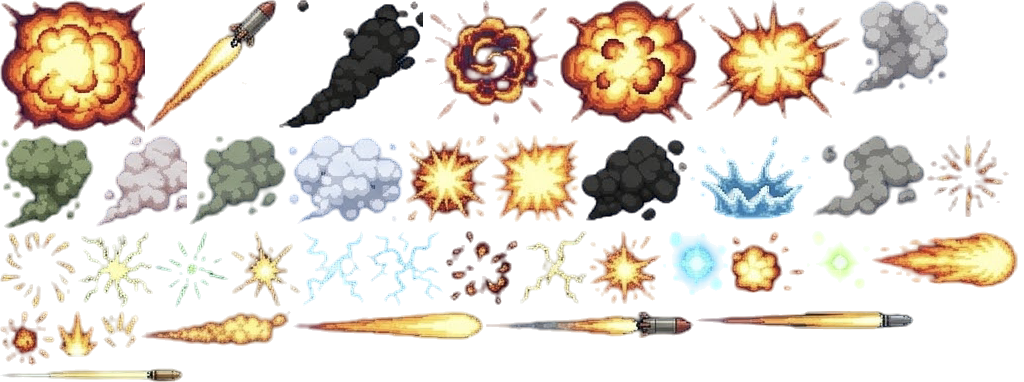
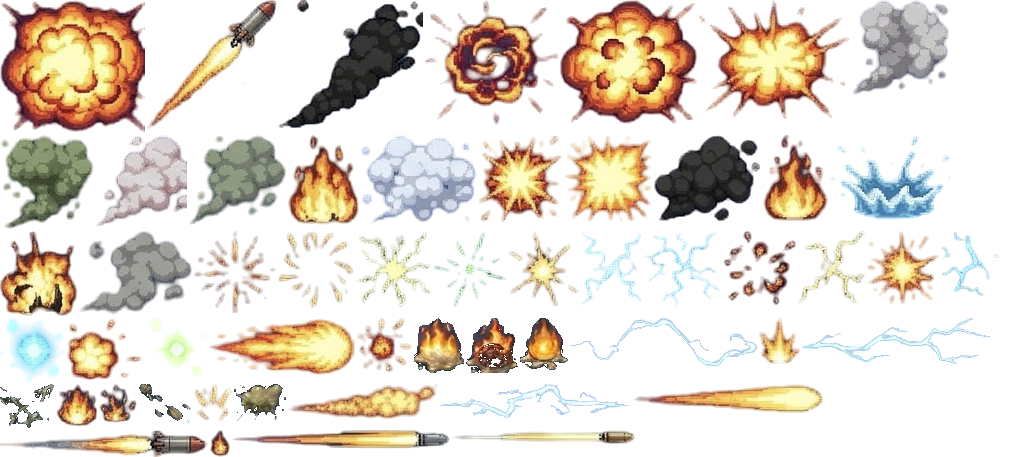
Add fire, lightning and glue effects from the new uploads
Cut flames and a lightning crack from the second effects sheet, and
painted bolts, glue, napalm and sticky fire from the effects board
(keyed off its navy background). Burning and glued modules and enemies
show lasting flames and glue; Tesla and storm lightning fly as painted
bolts; glue shots tumble as globs.

Claude-Session: https://claude.ai/code/session_012B9RMEQkFnqoemxWw27KeB

diff --git a/js/fx.js b/js/fx.js
@@ -85,9 +85,15 @@
         if (s.style === 'firepot') { g.fillStyle = '#ff8a3a'; g.beginPath(); g.arc(x, y, 5, 0, TAU); g.fill(); break; }
         for (let i = 0; i < 3; i++) parts.push({ kind: 'flame', x: x + rand(-5, 5), y: y + rand(-5, 5), vx: rand(-20, 20), vy: rand(-30, 0), g: -40, life: rand(0.25, 0.45), max: 0.45, r: rand(5, 10) });
         break;
-      case 'goo':
-        g.fillStyle = '#9fd05a'; for (let i = 0; i < 4; i++) { g.beginPath(); g.arc(x - i * 9, y + Math.sin((s.t + i) * 30) * 4, 3, 0, TAU); g.fill(); }
+      case 'goo': case 'tar': {
+        // A tumbling glob of glue that leaves sticky drips behind it.
+        g.save(); g.translate(x, y); g.rotate(s.t * 14);
+        const ok = SP().draw(g, 'glue_glob', 0, 0, s.style === 'tar' ? 26 : 22);
+        g.restore();
+        if (Math.random() < 0.5) parts.push({ kind: 'drip', x, y, vx: 0, vy: 20, g: 200, life: 0.5, max: 0.5, r: 2 });
+        if (!ok) { g.fillStyle = '#c9b37a'; g.beginPath(); g.arc(x, y, 5, 0, TAU); g.fill(); }
         break;
+      }
       case 'rocket': {
         // Point along the flight path, using the last trail point for the heading.
         const prev = s.trail.length > 1 ? s.trail[s.trail.length - 2] : [s.from.x, s.from.y];
@@ -113,6 +119,14 @@
         break;
       }
       case 'lightning': {
+        // A painted bolt stretched from gun to target, flickering between three shapes.
+        const dx = s.to.x - s.from.x, dy = s.to.y - s.from.y, len = Math.hypot(dx, dy);
+        const bolt = BOLTS[Math.floor(s.t * 30) % BOLTS.length];
+        g.save(); g.translate((s.from.x + s.to.x) / 2, (s.from.y + s.to.y) / 2); g.rotate(Math.atan2(dy, dx));
+        g.globalCompositeOperation = 'lighter';
+        const ok = SP().draw(g, bolt, 0, 0, len * 1.05, Math.min(40, len * 0.22));
+        g.restore();
+        if (ok) break;
         g.save(); g.strokeStyle = '#e6f3ff'; g.lineWidth = 2.5; g.shadowColor = '#8fc8ff'; g.shadowBlur = 14;
         g.beginPath(); g.moveTo(s.from.x, s.from.y);
         const n = 8;
@@ -120,10 +134,10 @@
         g.stroke(); g.restore();
         break;
       }
-      case 'gas': case 'tar': {
-        const col = { gas: '#a98ad6', tar: '#8bc34a' }[s.style];
+      case 'gas': {
+        const col = '#a98ad6';
         g.fillStyle = col; g.strokeStyle = '#24170f'; g.lineWidth = 1.5; g.beginPath(); g.arc(x, y, 5, 0, TAU); g.fill(); g.stroke();
-        if (Math.random() < 0.6) parts.push({ kind: 'smoke', x, y, vx: rand(-10, 10), vy: rand(-10, 10), g: 0, life: 0.4, max: 0.4, r: 4, color: s.style === 'gas' ? 'rgba(170,140,220,' : undefined });
+        if (Math.random() < 0.6) parts.push({ kind: 'smoke', x, y, vx: rand(-10, 10), vy: rand(-10, 10), g: 0, life: 0.4, max: 0.4, r: 4, color: 'rgba(170,140,220,' });
         break;
       }
       case 'bomb':
@@ -136,6 +150,9 @@
       }
     }
   }
+  const BOLTS = ['bolt_forked', 'bolt_jagged', 'bolt_chain'];
+  const FLAMES = ['fire_1', 'fire_2', 'fire_3'];
+  const BIG_FLAMES = ['fire_big_1', 'fire_big_2', 'fire_big_1', 'fire_big_2', 'fire_big_3'];
   const WEAPON_SHOT = { harpoon: ['harpoon', 0.3, 0], cannon: ['ball', 0.32, 18], mortar: ['shell', 0.55, 90], flamethrower: ['flame', 0.35, 0], gatling: ['goo', 0.3, 0], grenadiers: ['rocket', 0.45, 40], sniper: ['tracer', 0.14, 0], tesla: ['lightning', 0.18, 0] };
 
   // ---------- ambient effects ----------
@@ -162,10 +179,35 @@
     if (low && Math.random() < dt * 6) { const c = playerPt('core'); burst(c.x + rand(-15, 15), c.y - 6, 3, 'spark', { min: 40, max: 140, life: 0.5 }); }
   }
 
+  // Lasting status effects, painted every frame: flames on burning modules and on a burning enemy,
+  // globs of glue on glued modules and on a Gummed enemy.
+  function drawStatus(g, t) {
+    const game = window.cardships.game;
+    if (!game || !game.core || !A().player) return;
+    const P = A().player;
+    const flame = (x, y, w, seed, big) => { const set = big ? BIG_FLAMES : FLAMES; SP().draw(g, set[Math.floor(t * 9 + seed * 7) % set.length], x, y, w); };
+    const spots = [...[...P.mods.values()].map((m) => [m.uid, m.tokens]), ['core', game.core.tokens]];
+    for (const [uid, tok] of spots) {
+      if (!tok || (!tok.fire && !tok.glue)) continue;
+      const pt = P.pointOf(uid);
+      if (!pt) continue;
+      const seed = (uid.charCodeAt(uid.length - 1) || 0) % 5;
+      if (tok.glue) SP().draw(g, 'glue_glob', pt.x + 4, pt.y + 2, 20 + seed);
+      if (tok.fire) flame(pt.x - 2, pt.y - 10, 22, seed, false);
+    }
+    const c = game.combat;
+    if (A().enemy && c && !c.over) {
+      const ep = enemyPt();
+      if (c.enemy.weak > 0) for (const [k, dx] of [[0, -0.35], [1, 0.25]]) SP().draw(g, k ? 'glue_spray' : 'glue_glob', ep.x + dx * ep.r, ep.y + 8 + k * 6, 30);
+      if (c.enemy.burn > 0) for (let i = 0; i < Math.min(3, c.enemy.burn); i++) flame(ep.x + (i - 1) * ep.r * 0.45, ep.y - 6 + (i % 2) * 10, 30 + c.enemy.burn * 3, i, true);
+    }
+  }
+
   // ---------- drawing hooks ----------
   function drawFx(g, v) {
     const dt = v.dt;
     ambient(dt, v.t);
+    drawStatus(g, v.t);
     for (const s of shots) { s.t += dt; drawShot(g, s); }
     for (let i = shots.length - 1; i >= 0; i--) if (shots[i].t >= shots[i].dur) shots.splice(i, 1);
     for (const p of parts) {
@@ -284,6 +326,7 @@
   const sfx = (name, opts) => { if (window.CardshipsAudio) window.CardshipsAudio.sfx(name, opts); };
   let lookahead = [];
   let lastFire = null;
+  let lastBolt = false; // the enemy's last shot was lightning
   function nextTarget() {
     const ev = lookahead.find((e) => ['hit', 'block', 'destroyed'].includes(e.type));
     return ev ? ev.uid : null;
@@ -338,7 +381,9 @@
       for (let i = 0; i < Math.min(8, 2 + ev.dmg); i++) parts.push({ kind: Math.random() < 0.5 ? 'bolt' : 'gear', x: p.x, y: p.y, vx: rand(-160, 160), vy: rand(-200, -60), g: 500, life: 1, max: 1, r: rand(2.5, 4.5), rot: 0, vr: rand(-12, 12), color: '#8d9399' });
       smokePuff(p.x, p.y, 4);
       const ex = p.x - p.r * 0.2 + rand(-14, 14), ey = p.y + rand(-12, 12);
-      if (lastFire === 'tesla') sprite(ex, ey, ['zap_blue', 'zap_white'], 60, 0.35, { add: true });
+      if (lastFire === 'tesla') { sprite(ex, ey, ['zap_crack', 'zap_blue', 'zap_white'], 64, 0.4, { add: true }); sprite(ex, ey, 'bolt_chain', 90, 0.2, { add: true, rot: rand(-0.6, 0.6) }); }
+      if (lastFire === 'flamethrower') sprite(ex, ey + 6, ['napalm', 'fire_sticky'], 46, 0.7, { grow: 0.1 });
+      if (lastFire === 'gatling') { sprite(ex, ey, 'glue_spray', 44, 0.6, { grow: 0.2 }); sprite(ex + 6, ey + 4, 'glue_glob', 30, 0.8, { vy: 18, grow: 0 }); }
       explosion(ex, ey, 46 + ev.dmg * 8, big);
       if (big) smokeCloud(ex, ey - 10, 70, 'black');
       lastFire = null;
@@ -363,6 +408,7 @@
     enemyBlock() { const p = enemyPt(); ring(p.x, p.y, 'rgba(147,166,179,0.9)', p.r * 0.4, p.r * 1.1, 0.5, 6); sfx('clang'); return 320; },
     enemyHeal() { const p = enemyPt(); for (let i = 0; i < 6; i++) parts.push({ kind: 'wrench', x: p.x + rand(-p.r * 0.5, p.r * 0.5), y: p.y, vx: rand(-30, 30), vy: rand(-90, -40), g: 60, life: 0.9, max: 0.9, rot: 0, vr: rand(-12, 12) }); ring(p.x, p.y, 'rgba(120,220,140,0.9)', 10, p.r, 0.5, 5); sfx('ratchet'); return 300; },
     enemyShot(ev) {
+      lastBolt = !!ev.lightning;
       const from = enemyPt();
       const targets = [];
       for (const e of lookahead) { if (e.type === 'enemyShot' || e.type === 'roll' || e.type === 'intent') break; if (['hit', 'block', 'token'].includes(e.type) && !targets.includes(e.uid)) targets.push(e.uid); }
@@ -380,6 +426,7 @@
       if (m) m.hp = ev.hp;
       if (ev.uid === 'core') A().player.coreHp = ev.hp;
       burst(p.x, p.y, 8 + ev.dmg * 3, 'spark', { min: 60, max: 240, life: 0.5 });
+      if (lastBolt) { sprite(p.x, p.y, ['zap_crack', 'zap_white'], 52, 0.4, { add: true }); lastBolt = false; }
       for (let i = 0; i < Math.min(6, ev.dmg + 1); i++) parts.push({ kind: 'bolt', x: p.x, y: p.y, vx: rand(-140, 140), vy: rand(-180, -40), g: 520, life: 0.9, max: 0.9, rot: 0, vr: rand(-14, 14) });
       if (ev.src !== 'fire') explosion(p.x + rand(-8, 8), p.y + rand(-8, 4), 34 + ev.dmg * 7, ev.dmg >= 4);
       numberAt(p.x, p.y - 30, `-${ev.dmg}`, ev.uid === 'core' ? '#ff8f7a' : '#ffd6a0', 17 + Math.min(14, ev.dmg * 3));
@@ -414,16 +461,15 @@
     },
     token(ev) {
       const p = playerPt(ev.uid);
-      if (ev.token === 'fire') burst(p.x, p.y - 4, 16, 'flame', { min: 20, max: 120, g: -60, life: 0.6, rmin: 4, rmax: 9 });
-      if (ev.token === 'glue') burst(p.x, p.y, 14, 'drip', { min: 40, max: 160, g: 300, life: 0.7, rmin: 2, rmax: 4 });
+      if (ev.token === 'fire') { sprite(p.x, p.y - 8, ['napalm', 'sticky_fire', 'fire_sticky'], 44, 0.7, { grow: 0.15 }); burst(p.x, p.y - 4, 10, 'flame', { min: 20, max: 120, g: -60, life: 0.6, rmin: 4, rmax: 9 }); }
+      if (ev.token === 'glue') { sprite(p.x, p.y - 4, 'glue_spray', 40, 0.6, { grow: 0.2 }); burst(p.x, p.y, 10, 'drip', { min: 40, max: 160, g: 300, life: 0.7, rmin: 2, rmax: 4 }); }
       if (ev.token === 'gas') smokeCloud(p.x, p.y - 6, 60, 'green', { life: 1.4, vy: -8 });
-      if (ev.token === 'glue') sprite(p.x, p.y - 4, 'orb_green', 34, 0.5);
       if (ev.token === 'gas') for (let i = 0; i < 8; i++) parts.push({ kind: 'gas', x: p.x + rand(-20, 20), y: p.y + rand(-12, 12), vx: rand(-30, 30), vy: rand(-20, 10), g: 0, life: 1.4, max: 1.4, r: rand(10, 16) });
       sfx(ev.token === 'fire' ? 'crackle' : 'splat');
       return 220;
     },
-    burn(ev) { const p = playerPt(ev.uid); burst(p.x, p.y - 8, 12, 'flame', { up: 80, min: 10, max: 60, g: -80, life: 0.5, rmin: 4, rmax: 9 }); ring(p.x, p.y, 'rgba(255,140,60,0.9)', 6, 30, 0.3, 4); return 120; },
-    enemyBurn() { const p = enemyPt(); burst(p.x, p.y, 18, 'flame', { up: 90, min: 10, max: 80, g: -80, life: 0.6, rmin: 6, rmax: 11 }); sfx('crackle'); return 200; },
+    burn(ev) { const p = playerPt(ev.uid); sprite(p.x, p.y - 10, 'sticky_fire', 34, 0.6, { grow: 0.2 }); burst(p.x, p.y - 8, 12, 'flame', { up: 80, min: 10, max: 60, g: -80, life: 0.5, rmin: 4, rmax: 9 }); ring(p.x, p.y, 'rgba(255,140,60,0.9)', 6, 30, 0.3, 4); return 120; },
+    enemyBurn() { const p = enemyPt(); sprite(p.x, p.y - 4, ['fire_big_3', 'fire_big_1'], 70, 0.6, { grow: 0.2 }); burst(p.x, p.y, 18, 'flame', { up: 90, min: 10, max: 80, g: -80, life: 0.6, rmin: 6, rmax: 11 }); sfx('crackle'); return 200; },
     heal(ev) {
       const p = playerPt(ev.uid);
       const m = A().player.mods.get(ev.uid);

diff --git a/js/sprites.js b/js/sprites.js
@@ -26,17 +26,20 @@
     boiler_gauges: [301,0,175,140,2],
     boiler_tank: [151,0,148,140,2],
     bolt: [368,705,12,29],
+    bolt_chain: [570,318,187,48,1],
+    bolt_forked: [802,318,188,46,1],
+    bolt_jagged: [440,384,191,34,1],
     bombs: [123,456,126,90,2],
-    boom_1: [100,311,39,37,1],
-    boom_2: [57,311,41,46,1],
-    boom_3: [0,311,55,55,1],
-    boom_4: [730,231,75,62,1],
-    boom_5: [445,231,73,74,1],
-    boom_6: [927,135,82,82,1],
-    boom_7: [406,135,83,88,1],
-    boom_8: [491,135,88,87,1],
-    bullet: [0,368,183,14,1],
-    bullet_long: [696,311,218,19,1],
+    boom_1: [193,384,39,37,1],
+    boom_2: [759,318,41,46,1],
+    boom_3: [357,318,55,55,1],
+    boom_4: [67,318,75,62,1],
+    boom_5: [723,231,73,74,1],
+    boom_6: [194,231,82,82,1],
+    boom_7: [479,135,83,88,1],
+    boom_8: [564,135,88,87,1],
+    bullet: [452,430,183,14,1],
+    bullet_long: [232,430,218,19,1],
     cabin_big: [97,640,56,56],
     cabin_small: [842,640,36,45],
     cannon_a: [125,705,41,30],
@@ -61,14 +64,21 @@
     fin_a: [384,456,65,88,2],
     fin_b: [399,548,84,80,2],
     fin_c: [81,548,66,84,2],
-    fireball: [872,231,146,57,1],
+    fire_1: [210,430,20,27,1],
+    fire_2: [99,384,38,39,1],
+    fire_3: [56,384,41,43,1],
+    fire_big_1: [763,135,65,86,1],
+    fire_big_2: [288,135,71,90,1],
+    fire_big_3: [0,231,78,85,1],
+    fire_sticky: [414,318,50,55,1],
+    fireball: [209,318,146,57,1],
     flag_blue: [330,640,47,52],
     flag_cross: [473,640,46,50],
     flag_green: [425,640,46,50],
     flag_jolly: [567,640,46,49],
     flag_red: [379,640,44,50],
     flag_star: [521,640,44,49],
-    flame_trail: [293,311,191,29,1],
+    flame_trail: [633,384,191,29,1],
     frame: [418,705,36,27],
     gate: [732,640,32,47],
     gatling_a: [260,635,136,65,2],
@@ -77,6 +87,9 @@
     gauge: [269,548,93,82,2],
     gears_a: [780,0,198,131,2],
     gears_b: [636,0,142,135,2],
+    glue_glob: [234,384,52,37,1],
+    glue_mesh: [0,384,54,44,1],
+    glue_spray: [139,384,52,39,1],
     grapple: [848,298,71,118],
     gun_brass: [251,456,131,89,2],
     gun_copper: [792,262,156,93,2],
@@ -95,10 +108,11 @@
     mast: [542,298,22,152],
     motor_a: [77,635,89,69,2],
     motor_b: [168,635,90,68,2],
-    muzzle_trail: [141,311,150,35,1],
+    muzzle_trail: [288,384,150,35,1],
+    napalm: [520,318,48,52,1],
     net: [0,640,95,63],
-    orb_blue: [663,231,65,64,1],
-    orb_green: [807,231,63,58,1],
+    orb_blue: [0,318,65,64,1],
+    orb_green: [144,318,63,58,1],
     panel_iron: [530,361,130,92,2],
     pipe: [179,741,43,16],
     plank: [505,705,42,26],
@@ -118,7 +132,7 @@
     ring_steel: [451,456,108,87,2],
     rocket: [147,0,130,130,1],
     rocket_bundle: [306,262,103,95,2],
-    rocket_flat: [486,311,208,27,1],
+    rocket_flat: [0,430,208,27,1],
     rocket_rack: [0,456,121,90,2],
     rockets_small: [543,635,68,41,2],
     rudder: [442,361,86,92,2],
@@ -133,22 +147,23 @@
     ship_galleon: [0,298,299,237],
     ship_ironclad: [674,0,337,245],
     ship_pirate: [370,0,302,253],
-    smoke_black: [581,135,107,86,1],
+    smoke_black: [654,135,107,86,1],
     smoke_green: [0,135,94,94,1],
-    smoke_grey: [813,135,112,84,1],
+    smoke_grey: [80,231,112,84,1],
     smoke_light: [852,0,97,95,1],
     smoke_olive: [189,135,97,90,1],
     smoke_pink: [96,135,91,92,1],
     smoke_trail: [279,0,144,128,1],
-    smoke_white: [288,135,116,89,1],
-    spark_gold: [231,231,70,76,1],
-    spark_green: [155,231,74,77,1],
-    spark_orange: [589,231,72,73,1],
-    spark_ring: [0,231,76,78,1],
-    spark_star: [78,231,75,77,1],
-    splash: [690,135,121,85,1],
+    smoke_white: [361,135,116,89,1],
+    spark_gold: [509,231,70,76,1],
+    spark_green: [433,231,74,77,1],
+    spark_orange: [867,231,72,73,1],
+    spark_ring: [278,231,76,78,1],
+    spark_star: [356,231,75,77,1],
+    splash: [830,135,121,85,1],
     spyglass: [398,635,143,56,2],
     steam_puff: [549,705,38,25],
+    sticky_fire: [466,318,52,55,1],
     torpedo: [418,144,141,103,2],
     trail_flame: [754,705,179,22],
     trail_smoke: [589,705,130,23],
@@ -162,9 +177,10 @@
     turret_e: [0,705,38,34],
     turret_f: [332,705,34,29],
     wheel: [411,262,95,95,2],
-    zap_blue: [303,231,61,75,1],
-    zap_white: [366,231,77,75,1],
-    zap_yellow: [520,231,67,73,1],
+    zap_blue: [581,231,61,75,1],
+    zap_crack: [941,231,59,65,1],
+    zap_white: [644,231,77,75,1],
+    zap_yellow: [798,231,67,73,1],
   };
   // Atlases load the first time one of their frames is asked for; ships and effects load at once.
   const SOURCES = ['assets/art/ship-parts.png', 'assets/art/fx.png', 'assets/art/parts.png'];

diff --git a/tools/build_sprites.py b/tools/build_sprites.py
@@ -133,6 +133,18 @@ PARTS_AREAS = {
  'motor_a': (384, 642, 485, 732), 'motor_b': (486, 642, 586, 732), 'rudder': (587, 634, 684, 738),
  'fin_a': (706, 638, 784, 740), 'fin_b': (788, 638, 882, 740), 'fin_c': (884, 638, 960, 740),
 }
+# The second effects sheet (transparent): flames and a lightning crack.
+FX2_AREAS = {
+ 'fire_1': (15, 604, 48, 642), 'fire_2': (55, 604, 98, 642), 'fire_3': (100, 604, 146, 642),
+ 'fire_big_1': (18, 648, 96, 746), 'fire_big_2': (106, 648, 184, 746), 'fire_big_3': (200, 648, 288, 746),
+ 'zap_crack': (995, 220, 1060, 292),
+}
+# The effects board is a JPEG on a navy grid, so its pieces are cut by rectangle and keyed (see keyed()).
+BOARD_CUTS = {
+ 'bolt_jagged': (412, 470, 610, 516), 'bolt_chain': (412, 545, 610, 602), 'bolt_forked': (412, 625, 610, 676),
+ 'glue_glob': (650, 468, 708, 522), 'glue_mesh': (728, 468, 792, 522), 'glue_spray': (815, 468, 878, 522),
+ 'napalm': (650, 545, 708, 604), 'fire_sticky': (732, 545, 790, 604), 'sticky_fire': (650, 625, 708, 682),
+}
 PARTS_CUTS = {'panel_iron': (986, 536, 1124, 638), 'crate_wood': (1132, 536, 1238, 638)}
 
 
@@ -156,6 +168,28 @@ def area_pieces(path, areas, cuts={}):
     return pieces
 
 
+def keyed(path, cuts):
+    """Cuts pieces off a dark navy background: lightning keeps its bright glow, everything else
+    drops the bluish-dark backdrop and grid lines."""
+    A = np.array(Image.open(path).convert('RGB')).astype(float)
+    pieces = {}
+    for nm, (x0, y0, x1, y1) in cuts.items():
+        c = A[y0:y1, x0:x1]
+        r, g, b = c[:, :, 0], c[:, :, 1], c[:, :, 2]
+        lum = 0.3 * r + 0.59 * g + 0.11 * b
+        if nm.startswith('bolt_'):
+            alpha = np.clip((lum - 95) / 110, 0, 1)
+        else:
+            blue = (b > r + 18) & (b >= g - 4) & (lum < 170)
+            alpha = np.where(blue, 0.0, 1.0)
+            alpha = np.where(lum < 40, 0.0, alpha)
+        rgba = np.dstack([c, alpha * 255]).astype(np.uint8)
+        ys, xs = np.where(rgba[:, :, 3] > 40)
+        rgba = rgba[ys.min():ys.max() + 1, xs.min():xs.max() + 1]
+        pieces[nm] = Image.fromarray(rgba, 'RGBA')
+    return pieces
+
+
 def pack(pieces, path):
     """Shelf-packs pieces into a 1024-wide atlas and returns their frames."""
     order = sorted(pieces, key=lambda n: -pieces[n].size[1])
@@ -175,7 +209,8 @@ def pack(pieces, path):
 def main():
     frames = {}
     sheets = [(ship_pieces(), ATLAS),
-              (area_pieces(os.path.join(SRC, 'fx-sheet.png'), FX_AREAS), os.path.join(ROOT, 'assets/art/fx.png')),
+              ({**area_pieces(os.path.join(SRC, 'fx-sheet.png'), FX_AREAS), **area_pieces(os.path.join(SRC, 'fx-sheet-2.png'), FX2_AREAS),
+                **keyed(os.path.join(SRC, 'effects-board.jpg'), BOARD_CUTS)}, os.path.join(ROOT, 'assets/art/fx.png')),
               (area_pieces(os.path.join(SRC, 'parts-sheet.png'), PARTS_AREAS, PARTS_CUTS), os.path.join(ROOT, 'assets/art/parts.png'))]
     for i, (pieces, path) in enumerate(sheets):
         for k, f in pack(pieces, path).items():

diff --git a/DESIGN_CHANGES.md b/DESIGN_CHANGES.md
@@ -326,3 +326,21 @@ The cutaway with parts-sheet modules on the hull didn't work, so the two jobs ar
   - The old install bolts and module popovers in the flight view are gone; tapping your ship in the flight view selects the Core.
   *Reason: building needs room and clear slots, not a crowded hull.*
 - **Part offers no longer show a part portrait**, and the steampunk-parts atlas only loads if something asks for it. *Reason: those were the parts sprites that weren't working.*
+
+## Fire, lightning and glue effects
+
+- **New sprites, cut from your latest uploads.** From the second effects sheet: three small and three large flames, and a lightning crack. From the effects board: three painted lightning bolts (forked, jagged, chain), a glob of glue, a glue spray, napalm and two sticky-fire splashes. The board is a JPEG on a navy grid, so `tools/build_sprites.py` keys its background out. Lightning keeps its glow; everything else drops the dark blue. All of them go into `assets/art/fx.png`. *Reason: use the provided art for the three status effects.* The board's sticky mesh lost its thin strands when keyed, so it is left out.
+- **Fire.**
+  - A burning module (or Core) carries a flickering flame for as long as it burns.
+  - A Burning enemy carries one to three large flames, by its Burn stacks.
+  - Fire landing on you splashes napalm, each burn tick flares, and your Flamethrower's hits leave napalm on the enemy.
+  *Reason: you can see what is burning at a glance.*
+- **Lightning.**
+  - Tesla Coil shots and the Storm Queen's lightning are painted bolts stretched from gun to target, flickering between the three shapes.
+  - Hits crack with lightning at the point of impact.
+  *Reason: the hand-drawn line looked out of place next to the sprite effects.*
+- **Glue.**
+  - The Glue Gatling and the enemy's tar shots fire a tumbling glob of glue that drips as it flies, and splash on impact.
+  - Glued modules carry a glob for as long as they stay glued, and a Gummed enemy carries glue splats until it wears off.
+  *Reason: makes Glue and Gummed readable in the flight view.*
+- **Housekeeping:** the new uploads are moved to `assets/art/source/` as `fx-sheet-2.png`, `effects-board.jpg` and `arsenal-board.jpg`. The arsenal board isn't used yet.

diff --git a/README.md b/README.md
@@ -64,7 +64,7 @@ TUNE='{"BALANCE":{"bossHp":1.5}}' BRIEF=1 node tools/simulate.js 500   # try a c
 | `assets/art/sky-deck.jpg` | Sky Dock backdrop |
 | `assets/art/engine-room.jpg` | Trading Zeppelin backdrop (the merchant's engine room) |
 | `assets/art/ship-parts.png` | Sprite atlas cut from `assets/art/source/ship-parts-sheet.png` (rebuild with `python3 tools/build_sprites.py`): the four full ships (yours and the pirates'), flags, map marker, clouds, smoke trail |
-| `assets/art/fx.png` | Effects atlas cut from `assets/art/source/fx-sheet.png`: explosions, blasts, smoke clouds, muzzle flashes, rockets, bullets, fireballs, lightning, splashes |
+| `assets/art/fx.png` | Effects atlas cut from `assets/art/source/fx-sheet.png`, `fx-sheet-2.png` and `effects-board.jpg` (keyed off its navy background): explosions, blasts, smoke clouds, muzzle flashes, rockets, bullets, fireballs, flames, napalm, lightning bolts and cracks, glue globs and spray, splashes |
 | `assets/art/parts.png` | Steampunk parts atlas cut from `assets/art/source/parts-sheet.png`: guns, gatlings, rocket racks, boilers, engines, gears, armour plates, chests, spyglass, compass, propellers (cut but not used at the moment) |
 | `assets/music/pirate-battle-1` | Title, sky map, docks, victory, defeat |
 | `assets/music/pirate-battle-2` | Standard combat |
